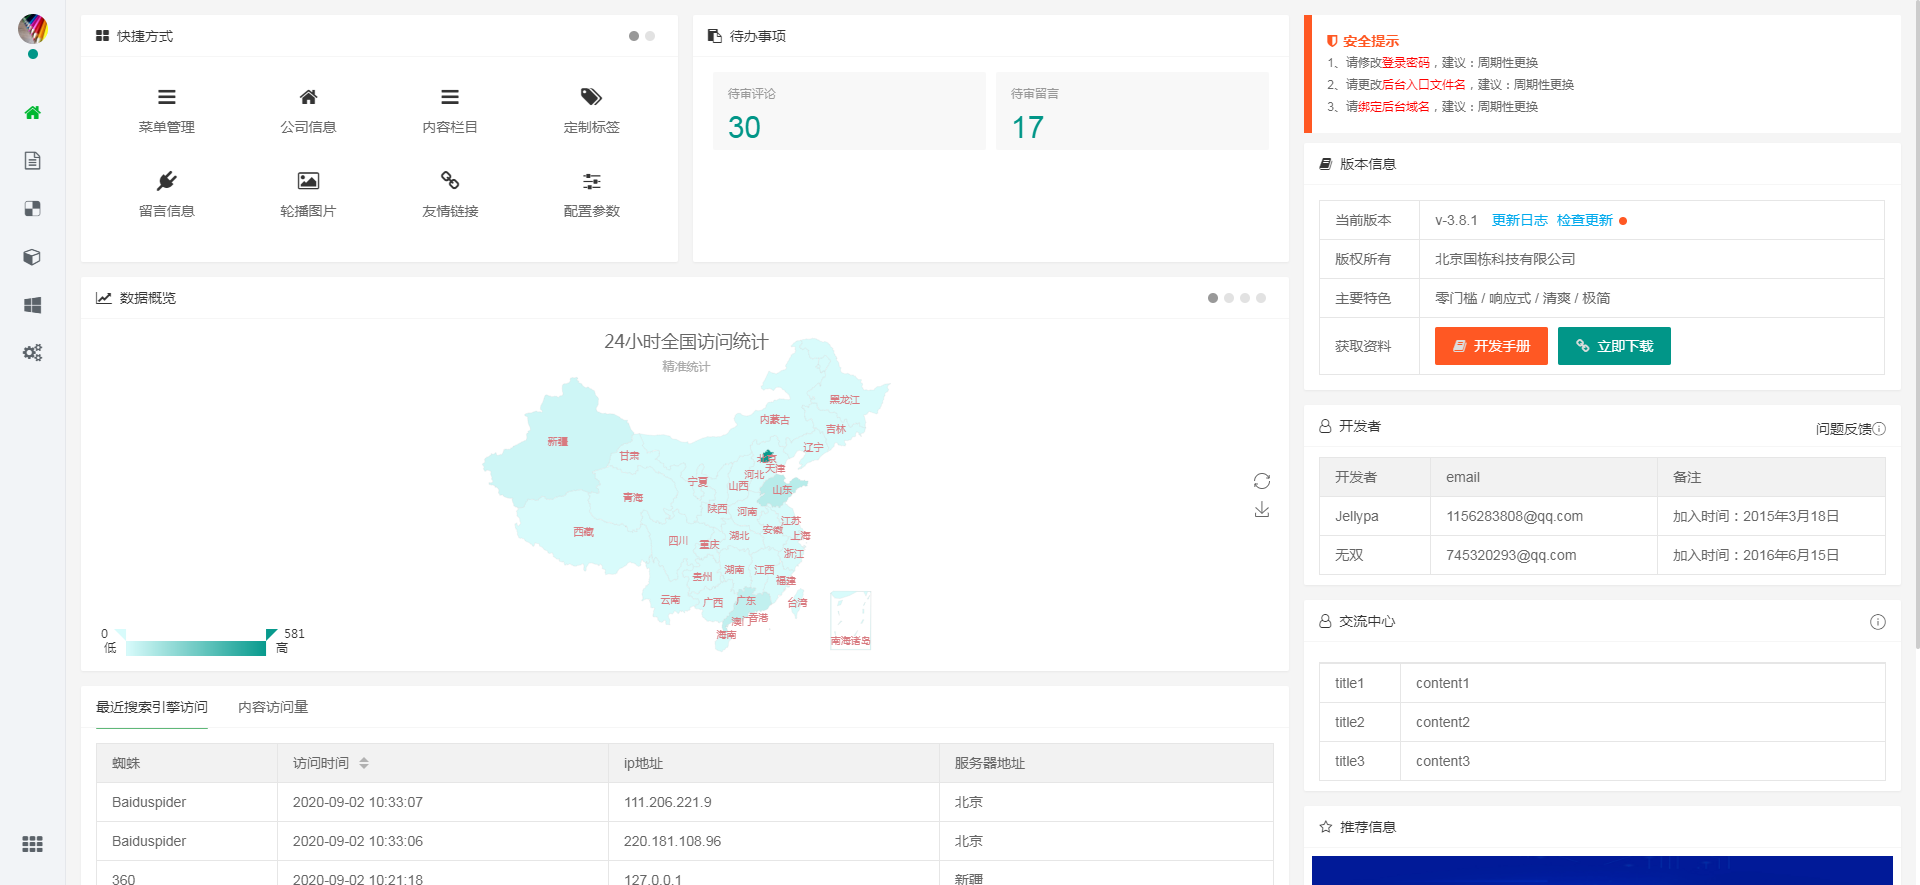
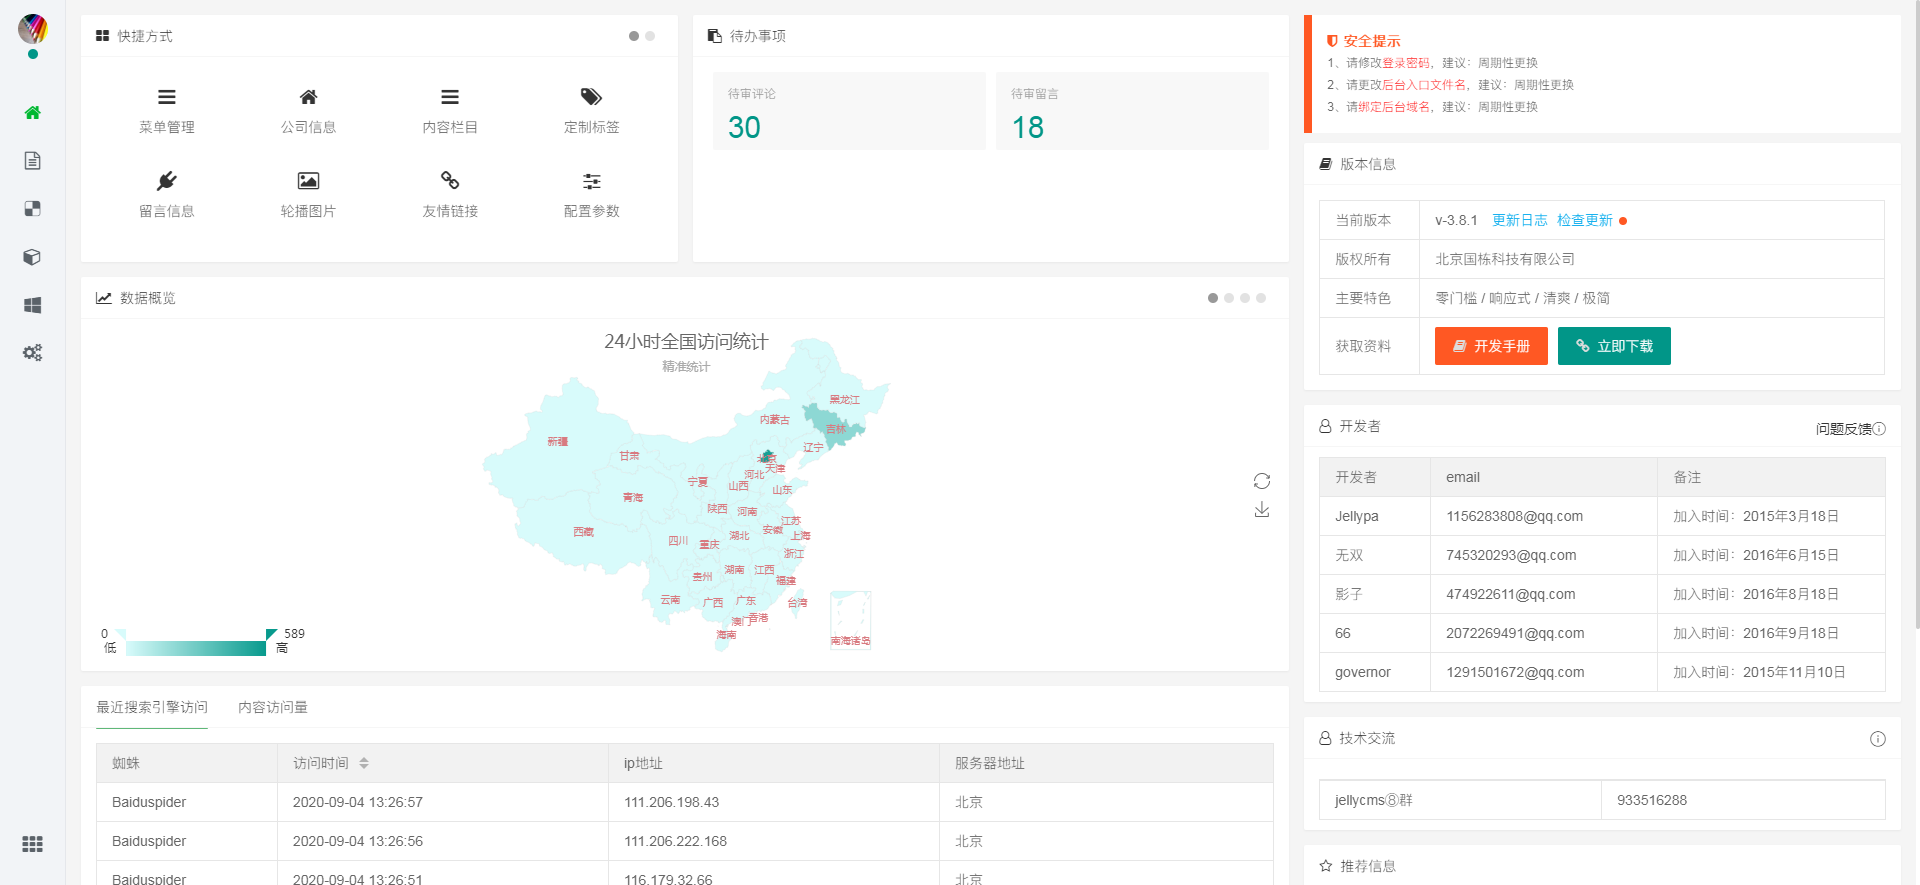
666

diff --git a/app/home/Controllers/Push.php b/app/home/Controllers/Push.php
@@ -23,6 +23,8 @@ class Push extends BaseController
 			['name'=>'Jellypa', 'email'=>'1156283808@qq.com', 'description'=>'加入时间：2015年3月18日'],
 			['name'=>'无双', 'email'=>'745320293@qq.com', 'description'=>'加入时间：2016年6月15日'],
 			['name'=>'影子', 'email'=>'474922611@qq.com', 'description'=>'加入时间：2016年8月18日'],
+			['name'=>'66', 'email'=>'2072269491@qq.com', 'description'=>'加入时间：2016年9月18日'],
+			['name'=>'governor', 'email'=>'1291501672@qq.com', 'description'=>'加入时间：2015年11月10日'],
 		];
 		$rdata = [
 			'code'=>0,
